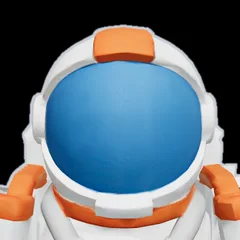
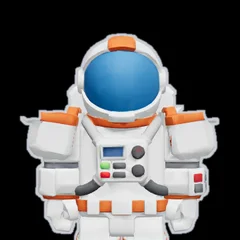
Character picker: Spacebot and Gorillaz pictures pulled back too so their shoulders fit. Cache v210
Claude-Session: https://claude.ai/code/session_014MNvuNaKoBMmHJVcR3wjUS

diff --git a/sw.js b/sw.js
@@ -1,7 +1,7 @@
 /* imok 1v1 offline cache.
    The page itself is fetched fresh whenever there's a connection (so updates show up straight away) and falls back to the cached copy offline.
    Sounds, icons, three.js and fonts are served from the cache after the first visit. Music streams normally (browsers fetch it in ranges). */
-const CACHE='imok-1v1-v209';
+const CACHE='imok-1v1-v210';
 const CORE=['./','index.html','manifest.webmanifest','icons/icon-192.png','icons/icon-512.png','icons/apple-touch-icon.png',
   'chars/brute_p.webp','chars/brute_c.webp','chars/brute_k.webp','chars/jet_p.webp','chars/jet_c.webp','chars/jet_k.webp','chars/ghost_p.webp','chars/ghost_c.webp','chars/ghost_k.webp','chars/patch_p.webp','chars/patch_c.webp','chars/patch_k.webp','chars/crusty_p.webp','chars/crusty_c.webp','chars/crusty_k.webp','chars/wednesday_p.webp','chars/wednesday_c.webp','chars/wednesday_k.webp','chars/antihero_p.webp','chars/antihero_c.webp','chars/antihero_k.webp','chars/dracula_k.webp','chars/astronaut_k.webp','chars/lilpink_k.webp',
   'https://cdn.jsdelivr.net/npm/three@0.158.0/build/three.min.js'];
